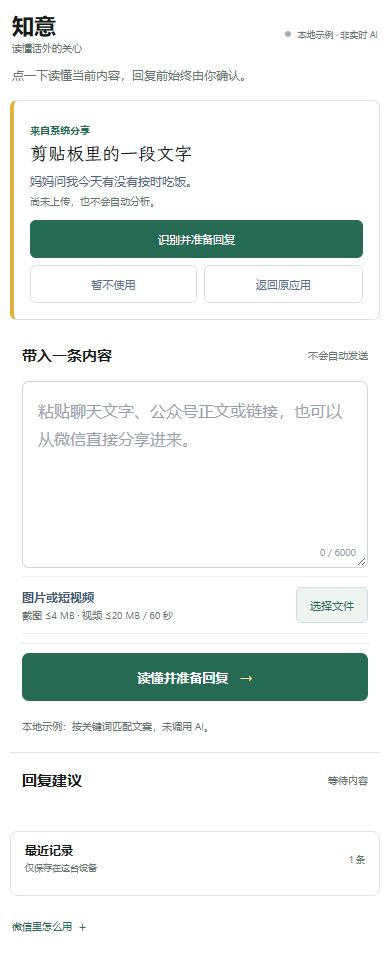
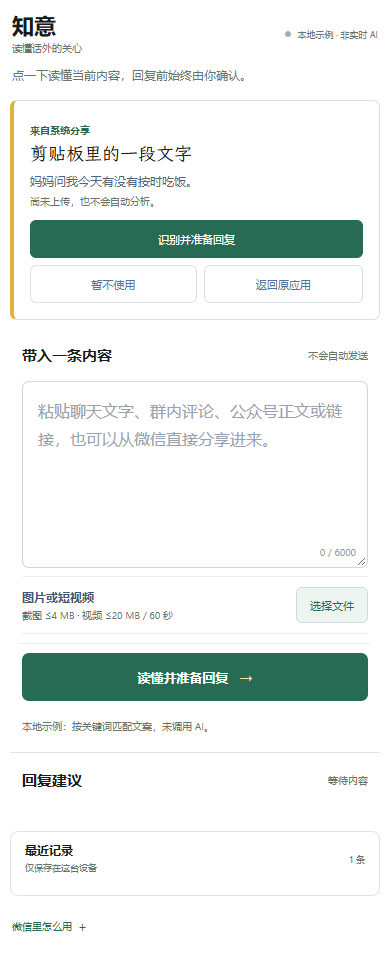
Polish WeChat demo and refresh submission evidence

Changed region(s): [[0.0923, 0.4012, 0.8923, 0.463]]

diff --git a/public/app.js b/public/app.js
@@ -3,6 +3,8 @@
 const $ = id => document.getElementById(id);
 if (new URLSearchParams(location.search).get('host') === 'android') document.body.dataset.host = 'android';
 const staticDemo = location.hostname.endsWith('.github.io') || new URLSearchParams(location.search).get('demo') === '1';
+const inWechatBrowser = /MicroMessenger/i.test(navigator.userAgent);
+if (inWechatBrowser) document.body.dataset.client = 'wechat';
 const hasOwn = (object, key) => Object.prototype.hasOwnProperty.call(object, key);
 const settle = promises => Promise.all(promises.map(promise => Promise.resolve(promise).then(
   value => ({ status: 'fulfilled', value }),
@@ -472,7 +474,9 @@ function updateControls() {
   $('share-reply').hidden = !canShareReply();
   $('share-reply').disabled = locked || empty;
   $('share-reply-text').textContent = state.sharing ? '正在分享…' : '系统分享';
-  $('share-note').textContent = $('share-reply').hidden ? '当前浏览器不能直接选择微信联系人，可复制后回原聊天发送。' : '系统菜单里有微信时才能继续选人；没有微信请复制回复。';
+  $('share-note').textContent = $('share-reply').hidden ?
+    inWechatBrowser ? '当前在微信内：复制回复后，点左上角返回聊天，长按输入框粘贴并确认发送。' : '当前浏览器不能直接选择微信联系人，可复制后回原聊天发送。' :
+    '系统菜单里有微信时才能继续选人；没有微信请复制回复。';
   $('wechat-reply').hidden = !nativeWechat.post || !nativeWechat.available;
   $('wechat-reply').disabled = locked || empty || !nativeWechat.available;
   for (const id of ['inbound-accept', 'inbound-dismiss', 'inbound-return']) $(id).disabled = locked;
@@ -787,7 +791,7 @@ async function copyReply() {
         return;
       }
     } catch { /* Keep the text selected for manual copy. */ }
-    $('copy-status').textContent = '已选中文字，请长按或按 Ctrl / ⌘ + C 复制。';
+    $('copy-status').textContent = '已选中文字，请长按所选回复并选择“复制”；使用键盘时也可按 Ctrl / ⌘ + C。';
   }
 }
 

diff --git a/public/index.html b/public/index.html
@@ -70,7 +70,7 @@
 
         <label for="source-text" class="sr-only">微信中的文字、公众号正文或链接</label>
         <div class="source-wrap">
-          <textarea id="source-text" rows="5" placeholder="粘贴聊天文字、公众号正文或链接，也可以从微信直接分享进来。" aria-describedby="source-counter"></textarea>
+          <textarea id="source-text" rows="5" placeholder="粘贴聊天文字、群内评论、公众号正文或链接，也可以从微信直接分享进来。" aria-describedby="source-counter"></textarea>
           <span id="source-counter" class="counter">0 / 6000</span>
         </div>
         <div class="draft-row"><span id="draft-status" role="status">草稿仅在当前标签页暂存</span><button id="clear-draft" type="button" disabled>清空</button></div>

diff --git a/CLIENTS.md b/CLIENTS.md
@@ -18,13 +18,13 @@
 - 启动器静态快捷方式“分析剪贴板”：长按应用图标调用；支持的启动器可将它拖到桌面。
 - 快捷设置磁贴“知意”：用户先在系统快捷设置编辑页手动添加；点击时生成并消费应用内部的一次性令牌，启动前台后只读取一次剪贴板。启动器静态快捷方式不带令牌，只打开 App，用户仍需点“粘贴”。
 - Android 回复键盘：用户在系统输入法设置中启用后，可在微信当前输入框主动分析剪贴板，并用 `InputConnection.commitText` 插入确认后的回复。它不读取聊天记录、好友列表或输入框原文，不申请悬浮窗和无障碍权限。
-- Android 微信悬浮球：用户在 App 内阅读数据说明并手动启用系统无障碍服务后，球只在微信前台显示。只有点“读取可见文字”才读取当前微信窗口里 Android 暴露的可见文字；密码字段跳过，最多 6000 字。文字进入知意后仍需确认才上传分析。服务不监听聊天内容变化、不读取隐藏记录、不代发。
+- Android 微信悬浮球：用户在 App 内阅读数据说明并手动启用系统无障碍服务后，球只在微信前台显示。用户单击后，Android 11 及以上采集当前一帧屏幕并附上微信暴露的可见文字；Android 10 及以下只读取可见文字。密码字段跳过，文字最多 6000 字，截图最长边缩至 1920 像素且不超过 4 MiB。内容先进入知意确认页，确认后才上传分析。服务不监听聊天变化、不读取隐藏记录、不代发。
 - 原生“发送”：从受信页面读取当前回复，用 `ACTION_SEND text/plain` 打开系统分享面板；没有微信 AppID 时仍可使用。
 - Android 页面加载 `?host=android` 紧凑模式，隐藏装饰区，集中展示输入、分析和回复。
 - 页面先显示确认条和文字/文件信息；从系统分享或快捷入口进入时，确认一次后自动上传并生成。普通页面输入仍由用户主动点生成。已有输入、附件或回复时，必须选择保留原草稿或改用新内容。
 - 原生“复制返回”会把当前回复写入剪贴板并结束当前页面，使用系统返回栈恢复来源；不自动定位联系人、替换来源文字或发送消息。桥接不可用时使用系统返回键。
 
-普通系统分享、选中文字和回复键盘入口不申请存储、联系人或传统悬浮窗权限，也不监听剪贴板。微信悬浮球是明确选择的例外：它使用系统 AccessibilityService overlay；启用后会收到前台窗口切换事件以控制悬浮球显隐，绝不在事件回调中读取页面节点。读取节点只在微信前台点击“读取可见文字”后发生。可读性由微信当前页面决定；视频画面/声音、不可访问区域及微信内部搜索数据不会被读取。AccessibilityService 属高敏感系统权限；本构建用于本地/比赛演示，不应直接视为 Google Play 可发布版本。应用无自启，悬浮球服务由 Android 在用户启用期间托管；快捷设置的 `TileService` 由系统按需绑定，点击时只负责启动前台。媒体只读取本次授权的 `content://`，图片 4 MiB、视频 20 MiB/60 秒，文字 6000 个 Unicode 字符；来源撤回授权或进程被系统回收后可能需要重新分享。iOS 分享接收扩展仍未实现。
+普通系统分享、选中文字和回复键盘入口不申请存储、联系人或传统悬浮窗权限，也不监听剪贴板。微信悬浮球是明确选择的例外：它使用系统 AccessibilityService overlay；启用后会收到前台窗口切换事件以控制悬浮球显隐，绝不在事件回调中采集内容。只有用户在微信前台单击球后，才执行一次可见文字读取；Android 11 及以上还会在隐藏悬浮球并再次确认微信仍在前台后截取当前一帧。单帧截图不能读取小视频声音、隐藏消息、好友列表或微信内部搜索数据；完整视频仍需用户分享或保存后导入。AccessibilityService 属高敏感系统权限；本构建用于本地/比赛演示，不应直接视为 Google Play 可发布版本。应用无自启，悬浮球服务由 Android 在用户启用期间托管；快捷设置的 `TileService` 由系统按需绑定，点击时只负责启动前台。媒体只读取本次授权的 `content://`，图片 4 MiB、视频 20 MiB/60 秒，文字 6000 个 Unicode 字符；来源撤回授权或进程被系统回收后可能需要重新分享。iOS 分享接收扩展仍未实现。
 
 普通导入交互直接采用 Android 的成熟系统模式：[接收其他应用分享的数据](https://developer.android.com/develop/ui/compose/sharing/receive) 与 [`ACTION_PROCESS_TEXT`](https://developer.android.com/reference/android/content/Intent#ACTION_PROCESS_TEXT)。用户从原应用主动召唤、确认后才导入；微信悬浮球则是可单独关闭的高敏感实验入口。
 
@@ -47,7 +47,7 @@
 
 完整步骤分别见 clients/android/README.md 和 clients/ios/README.md。安卓开发签名只供开发测试；正式版需使用自己持有的签名，并与微信开放平台登记的应用一致。iOS 必须在 Mac 上编译和签名，源码静态检查不是 iOS 编译通过。
 
[2 lines of base64/hex data omitted]
 
 安装开发包后先填 HTTPS 根地址，或在 Android Debug 设置中选择“USB 本地调试”。USB 转发命令、Studio 内置设备镜像与演示步骤见 [本地部署与安卓演示](docs/本地部署与安卓演示.md)。当前没有可安装的 iPhone IPA，需在 Mac 上编译签名。
 

diff --git a/KIRO.md b/KIRO.md
@@ -1,18 +1,18 @@
 # Kiro 接续与实际使用记录
 
-核验日期：2026-10-17。
+核验日期：2026-10-20。
 
 ## 当前事实
 
-2026-10-17 最新实际调用：对最终提交改动发起受限只读审阅，Kiro CLI 2.28.0 启动 KAS 0.66.26 并加载项目 Steering 后仍返回 `403 / TEMPORARILY_SUSPENDED`。当前账号限制已重新验证，未产生模型输出、工具调用或文件编辑；不能将本轮 Codex 实现计为 Kiro 开发。
+2026-10-20 最新实际调用：从 Kiro 官方 Windows MSI 安装并运行 Kiro CLI 2.32.0，确认 Builder ID 仍为登录状态；随后对当前 Android 悬浮球、微信内网页和比赛材料发起仅授权 `read,grep` 的只读审阅。KAS 0.66.43 启动后仍返回 `403 / TEMPORARILY_SUSPENDED`，未产生模型输出、工具调用或文件编辑；不能将本轮 Codex 实现计为 Kiro 开发。
 
 本轮 `.kiro/` 是 Codex 根据 Kiro 官方文档准备的项目配置。已下载、验证并实际启动 Kiro CLI，用户也已完成登录；实际项目审阅会话加载了 Steering，但被 Kiro 服务端的账号临时锁定错误阻断，**尚无 Kiro 模型审阅或生成结果**。环境启动和配置加载证据不能替代比赛中“Kiro 已实际开发”的证明。
 
 初始化前已检查 Windows PATH、常见 C/D 盘应用目录、卸载注册表和运行进程，以及 WSL Ubuntu-22.04 的 PATH 与 `~/.local/bin`，没有找到 Kiro IDE 或 CLI。没有配置 `KIRO_API_KEY`（只检查是否存在，没有读取任何密钥内容）。WSL 可运行，但报告本地代理转发与 systemd 用户会话提示；本次使用 Windows 原生 CLI。
 
-官方稳定 CLI 清单当日返回 `2.28.0`；Windows x64 包为约 281 MiB 的 MSI。已下载到工作区 `work/kiro/`，校验 SHA-256 与官方清单一致，Authenticode 状态为 `Valid`，签名主体 `Amazon Web Services, Inc.`。用 Windows Installer `/a` 仅解包到工作目录，退出码为 0；没有运行系统安装 `/i`，没有改系统 PATH。
[1 lines of base64/hex data omitted]
 
-实际可执行文件位于工作区 `work/kiro/unpacked/LocalApp/Kiro-Cli/kiro-cli.exe`。`--version` 返回 `kiro-cli-chat 2.28.0`；`chat --help` 与 `login --help` 均实际运行成功。
+实际可执行文件位于 `%LOCALAPPDATA%\kiro-cli\kiro-cli.exe`。`--version` 返回 `kiro-cli-chat 2.32.0`；`login --help` 和 `whoami` 均实际运行成功，`whoami` 只用于确认登录状态，仓库不记录账号或令牌。
 
 ## 项目已准备
 
@@ -24,7 +24,7 @@
 | `.kiro/specs/oil-letter-redesign/tasks.md` | 实际 Kiro 接续任务 | 保留未勾选 |
 | `.kiro/hooks/backend-check.json` | IDE 保存服务端/测试后运行 `npm test` | 本地 JSON/匹配规则检查；未在 Kiro 触发 |
 
-Hooks 使用当前文档的 `version: v1` JSON 格式。官方触发器表说明文件保存事件适用于 IDE 和 CLI V3；headless 文档说明 CLI 2.27.1 起 V3 引擎加载现版 hooks。已检查本机 2.28.0 帮助确有 `--v3`，仍需登录后在真实会话验证 hook 触发。
+Hooks 使用当前文档的 `version: v1` JSON 格式。官方触发器表说明文件保存事件适用于 IDE 和 CLI V3；headless 文档说明 CLI 2.27.1 起 V3 引擎加载现版 hooks。当前 2.32.0 已实际接受 `chat --v3`，仍需账号恢复后在成功会话中验证 hook 触发。
 
 ## 最小实际接续
 
@@ -110,3 +110,9 @@ Kiro Agent Server 0.66.26 启动，但提示阶段返回 HTTP 403、`TEMPORARILY
 Kiro Agent Server 0.66.26 启动，会话 `sess_fe94c8a9-dd17-4246-9e0c-cb5a80beacb6` 的 `steering_inclusion` 再次确认 `.kiro/steering/project.md` 已加载。提示阶段仍返回 HTTP 403、`TEMPORARILY_SUSPENDED`；显示请求 ID `07fcc331-716d-49df-8a54-51dc13ed307d`，KRS 请求 ID `38ba5c16-a20b-4e24-88e8-6960f46200cf`。结果仍为 **0 个模型输出、0 个工具调用、0 个文件修改**。因此本轮实现不能计为 Kiro 开发，比赛中 Kiro 使用深度的 35% 仍未满足，需由账号本人通过 [Kiro 官方支持](https://support.aws.amazon.com/#/contacts/kiro) 完成身份验证后再执行一次真实任务。
 
 聊天视频素材入口、Android 实验悬浮球与临时 HTTPS 回归完成后，又发起一次只读审阅，仅授权 `read,grep`，禁止读取 `.env`、试用口令、密钥和用户数据，也禁止执行 shell 或修改文件。Windows 原生 Kiro CLI 仍为 2.28.0，KAS 仍为 0.66.26；会话 `sess_e4f65373-5d71-4a8d-9c74-5310814c5ee5` 已加载 `.kiro/steering/project.md`，随后再次收到 HTTP 403、`TEMPORARILY_SUSPENDED`。显示请求 ID `04ecd8d1-ff81-4249-af40-8e90fcf4bbbd`，KRS 请求 ID `bd08d54b-1dfd-413c-8eb2-76ae4b9ea701`。结果仍为 **0 个模型输出、0 个工具调用、0 个文件修改**；本次不能计为 Kiro 审阅。
+
+## 2026-10-20 官方 CLI 2.32.0 重试
+
+重新读取官方活动页后，使用 Kiro 官方发布清单和 MSI 安装 Windows x64 CLI 2.32.0。安装包大小为 267,739,136 字节，SHA-256 与官方清单完全一致；`whoami` 确认 Builder ID 登录仍有效。随后运行 `chat --v3 --no-interactive --trust-tools=read,grep`，提示仅允许读取当前 Steering、Android 分享规格、悬浮球实现、微信内网页、比赛材料及测试，明确禁止读取 `.env`、密钥、口令、日志和用户数据，也禁止修改文件或执行 shell。
+
+Kiro Agent Server 0.66.43 成功启动，但在模型与工具执行前，KRS 返回 HTTP 403、`TEMPORARILY_SUSPENDED`。KRS 请求 ID 为 `60569381-fb8b-4e15-b02c-0348aa85f51b`，最终请求 ID 为 `58660bd4-f971-41ca-9546-6370a3c2ec4c`，退出码 1。结果仍为 **0 个模型输出、0 个工具调用、0 个文件修改**；因此 Kiro 使用深度的比赛硬条件截至 2026-10-20 仍未满足，只能由账号本人通过 [Kiro 官方支持](https://support.aws.amazon.com/#/contacts/kiro) 完成身份验证后重跑。

diff --git a/SUBMISSION.md b/SUBMISSION.md
@@ -1,6 +1,6 @@
 # 知意比赛提交清单
 
-核对日期：2026-10-19。官方活动页要求线上作品提供在线 Demo 或 3–5 分钟录屏，并附不超过 200 字说明；所有项目须实际使用 Kiro。报名、验证码、协议确认和最终提交必须由参赛者本人完成。
+核对日期：2026-10-20。官方活动页要求线上作品提供在线 Demo 或 3–5 分钟录屏，并附不超过 200 字说明；所有项目须实际使用 Kiro。报名、验证码、协议确认和最终提交必须由参赛者本人完成。
 
 官方入口：[活动与规则](https://builderx.csdn.net/activity-site/kiro/index) · [线上报名表](https://marketing.csdn.net/questions/Q2609221355585201042)
 
@@ -17,7 +17,7 @@
 
 > 知意是一款面向微信场景的回复助手。Android 悬浮球可由用户点按读取当前微信可见内容；小程序支持导入聊天图片和小视频。系统分析文字、画面与语音，生成可编辑回复并在本机保留最近记录。项目按 Kiro Spec 整理，但 Kiro 实审因账号被官方临时锁定尚未完成。
 
-这段说明诚实反映当前状态，但 **Kiro 未实际完成任务，仍不满足比赛硬性要求**。2026-10-17 最终重试仍返回 `TEMPORARILY_SUSPENDED`，0 个模型输出、0 个工具调用。账号恢复后，应让 Kiro 完成一项真实规格审阅和代码修复，并用下面模板替换最后一句：
+这段说明诚实反映当前状态，但 **Kiro 未实际完成任务，仍不满足比赛硬性要求**。2026-10-20 使用官方 Kiro CLI 2.32.0 的最终重试仍返回 `TEMPORARILY_SUSPENDED`，0 个模型输出、0 个工具调用。账号恢复后，应让 Kiro 完成一项真实规格审阅和代码修复，并用下面模板替换最后一句：
 
 > 知意是一款面向微信场景的回复助手。粘贴文字或导入截图、小视频，系统读取内容后生成可编辑回复；遇到未读到的内容或健康说法会明确保留边界，不假装理解。Android 回复键盘还能把确认后的回复放入当前聊天输入框。我们用 Kiro【填写实际完成的规格、修复和验证】，让需求、实现和测试保持一致。
 

diff --git a/README.md b/README.md
@@ -215,7 +215,7 @@ node tests/browser-smoke.mjs
 
 ## Kiro 的实际参与
 
-本版由 Codex 完成。Kiro 已完成登录；2026-10-14 对当前单列插件版再次实际调用只读审阅，仍返回账号临时锁定 `TEMPORARILY_SUSPENDED`（HTTP 403），未完成模型审阅或代码生成。不能将这算作 Kiro 已参与开发。
+本版由 Codex 完成。Kiro 已完成登录；2026-10-20 使用官方 Kiro CLI 2.32.0 对当前版本再次实际调用只读审阅，仍返回账号临时锁定 `TEMPORARILY_SUSPENDED`（HTTP 403），未完成模型审阅或代码生成。不能将这算作 Kiro 已参与开发。
 
 证据见 `KIRO.md`。`.kiro/steering/project.md` 已同步当前单页和媒体范围；`.kiro/specs/oil-letter-redesign/` 是旧油画书信版历史规格，当前范围以 `PRODUCT.md` 为准。旧规格中的多阶段流程不再是本版待做事项。
 
